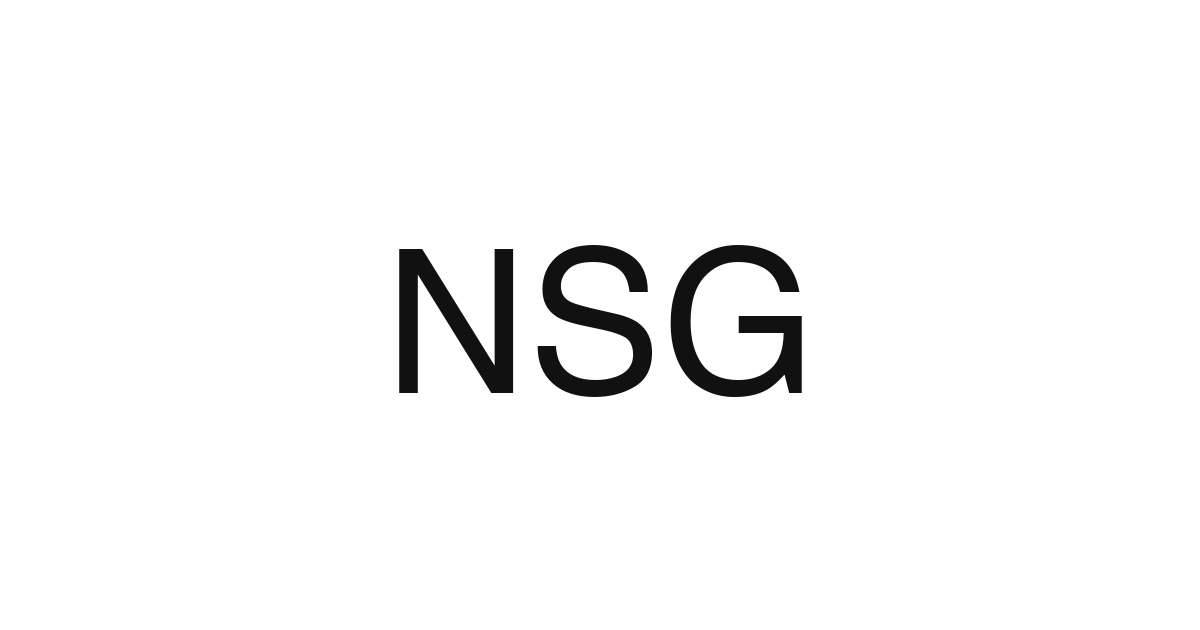
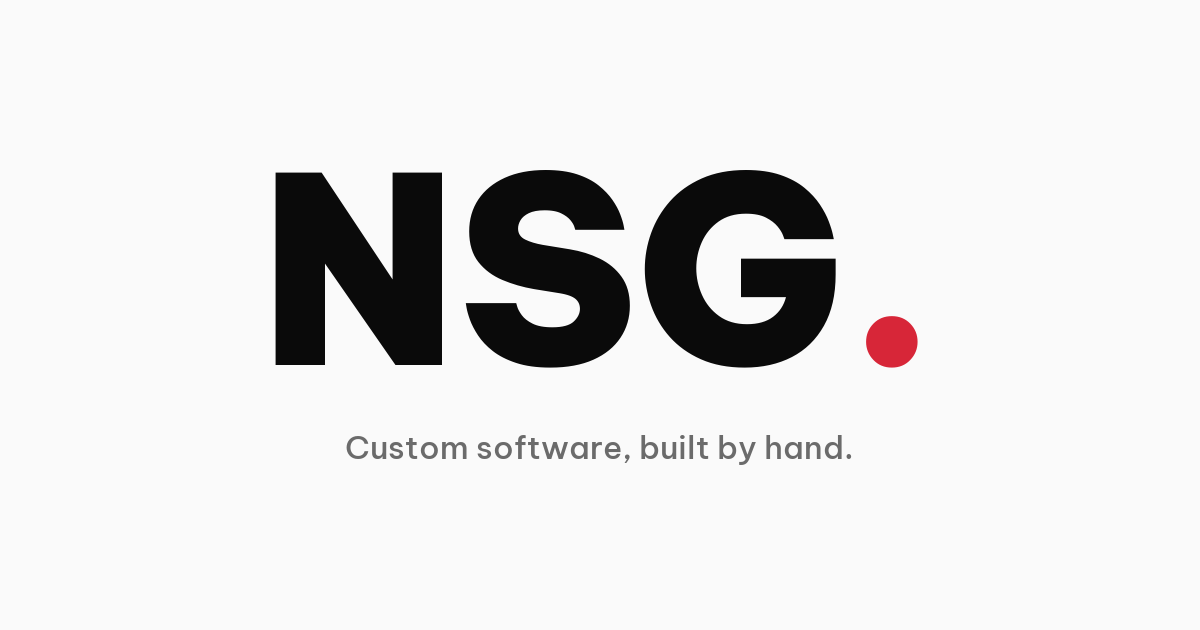
Brand the social share preview and breathe out the success state
Regenerates the OG image with the NSG. wordmark (Be Vietnam Pro Black,
red period) and tagline so iMessage/Twitter/etc. show the branded mark
instead of plain "NSG". Adds image dimensions and twitter:card meta so
platforms render it as a large image card.

Also adds the contact-success class to the form's success block so the
existing typography rules apply, and increases the gap between the
heading and the paragraph beneath it.

Changed region(s): [[0.2158, 0.2714, 0.7708, 0.6333], [0.2775, 0.6937, 0.7092, 0.754]]

diff --git a/src/styles/global.css b/src/styles/global.css
@@ -1096,7 +1096,7 @@ main {
 .contact-success h2 {
   font-size: 2.25rem;
   letter-spacing: 0;
-  margin-bottom: 1rem;
+  margin-bottom: 1.75rem;
 }
 
 .contact-success h2 em {